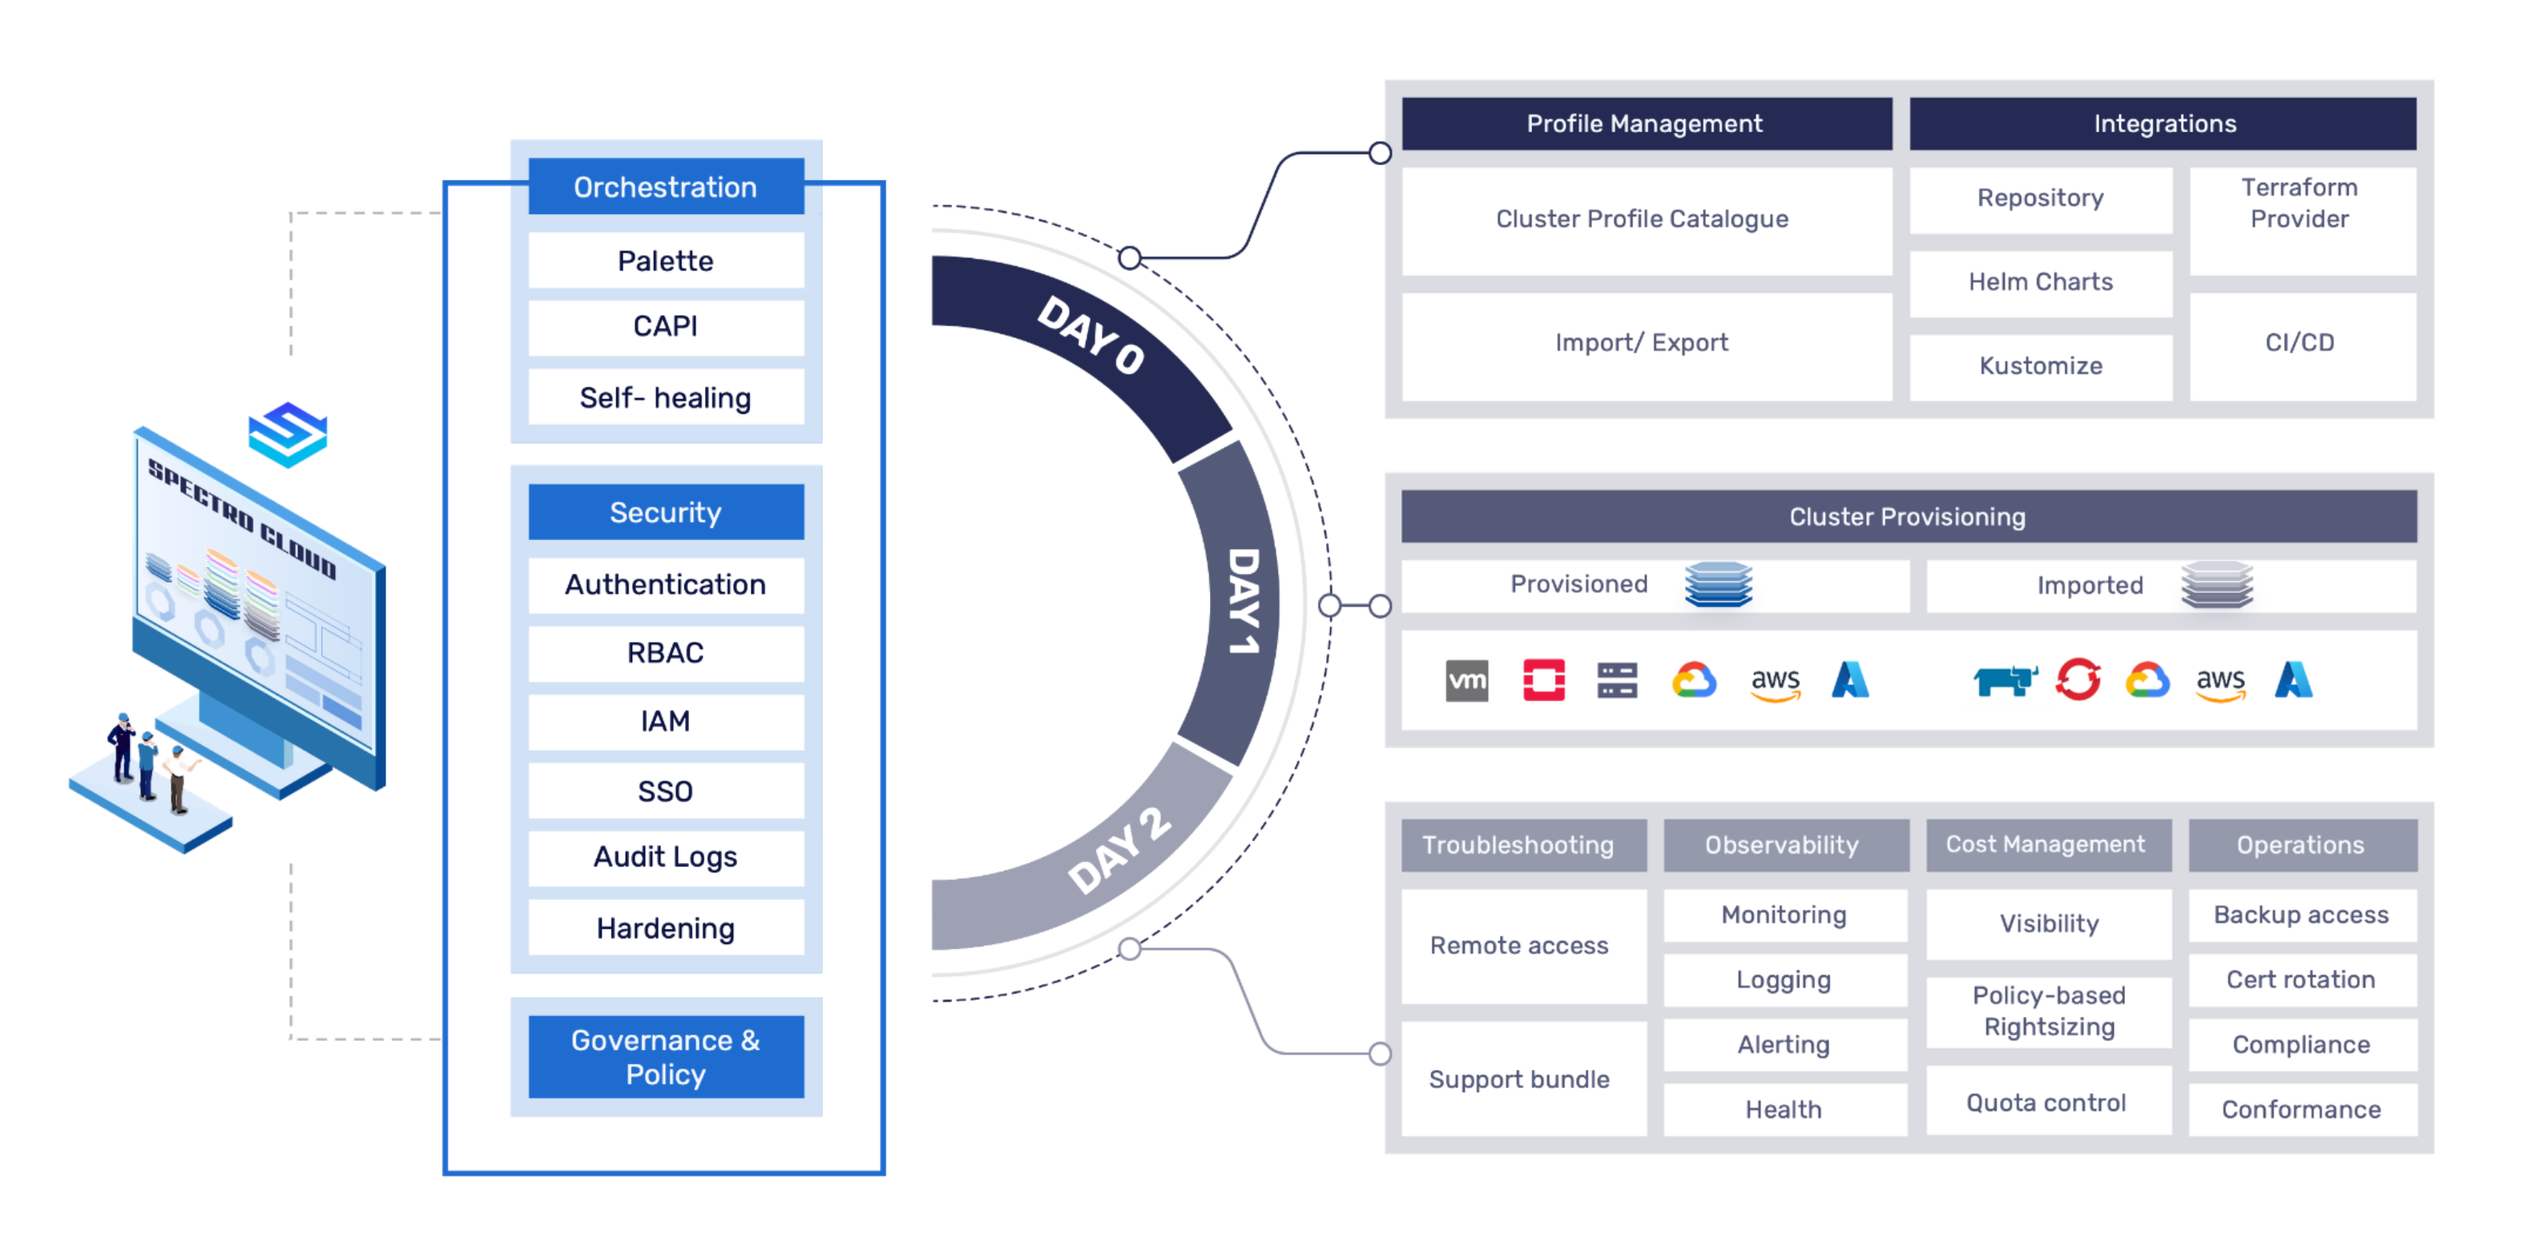
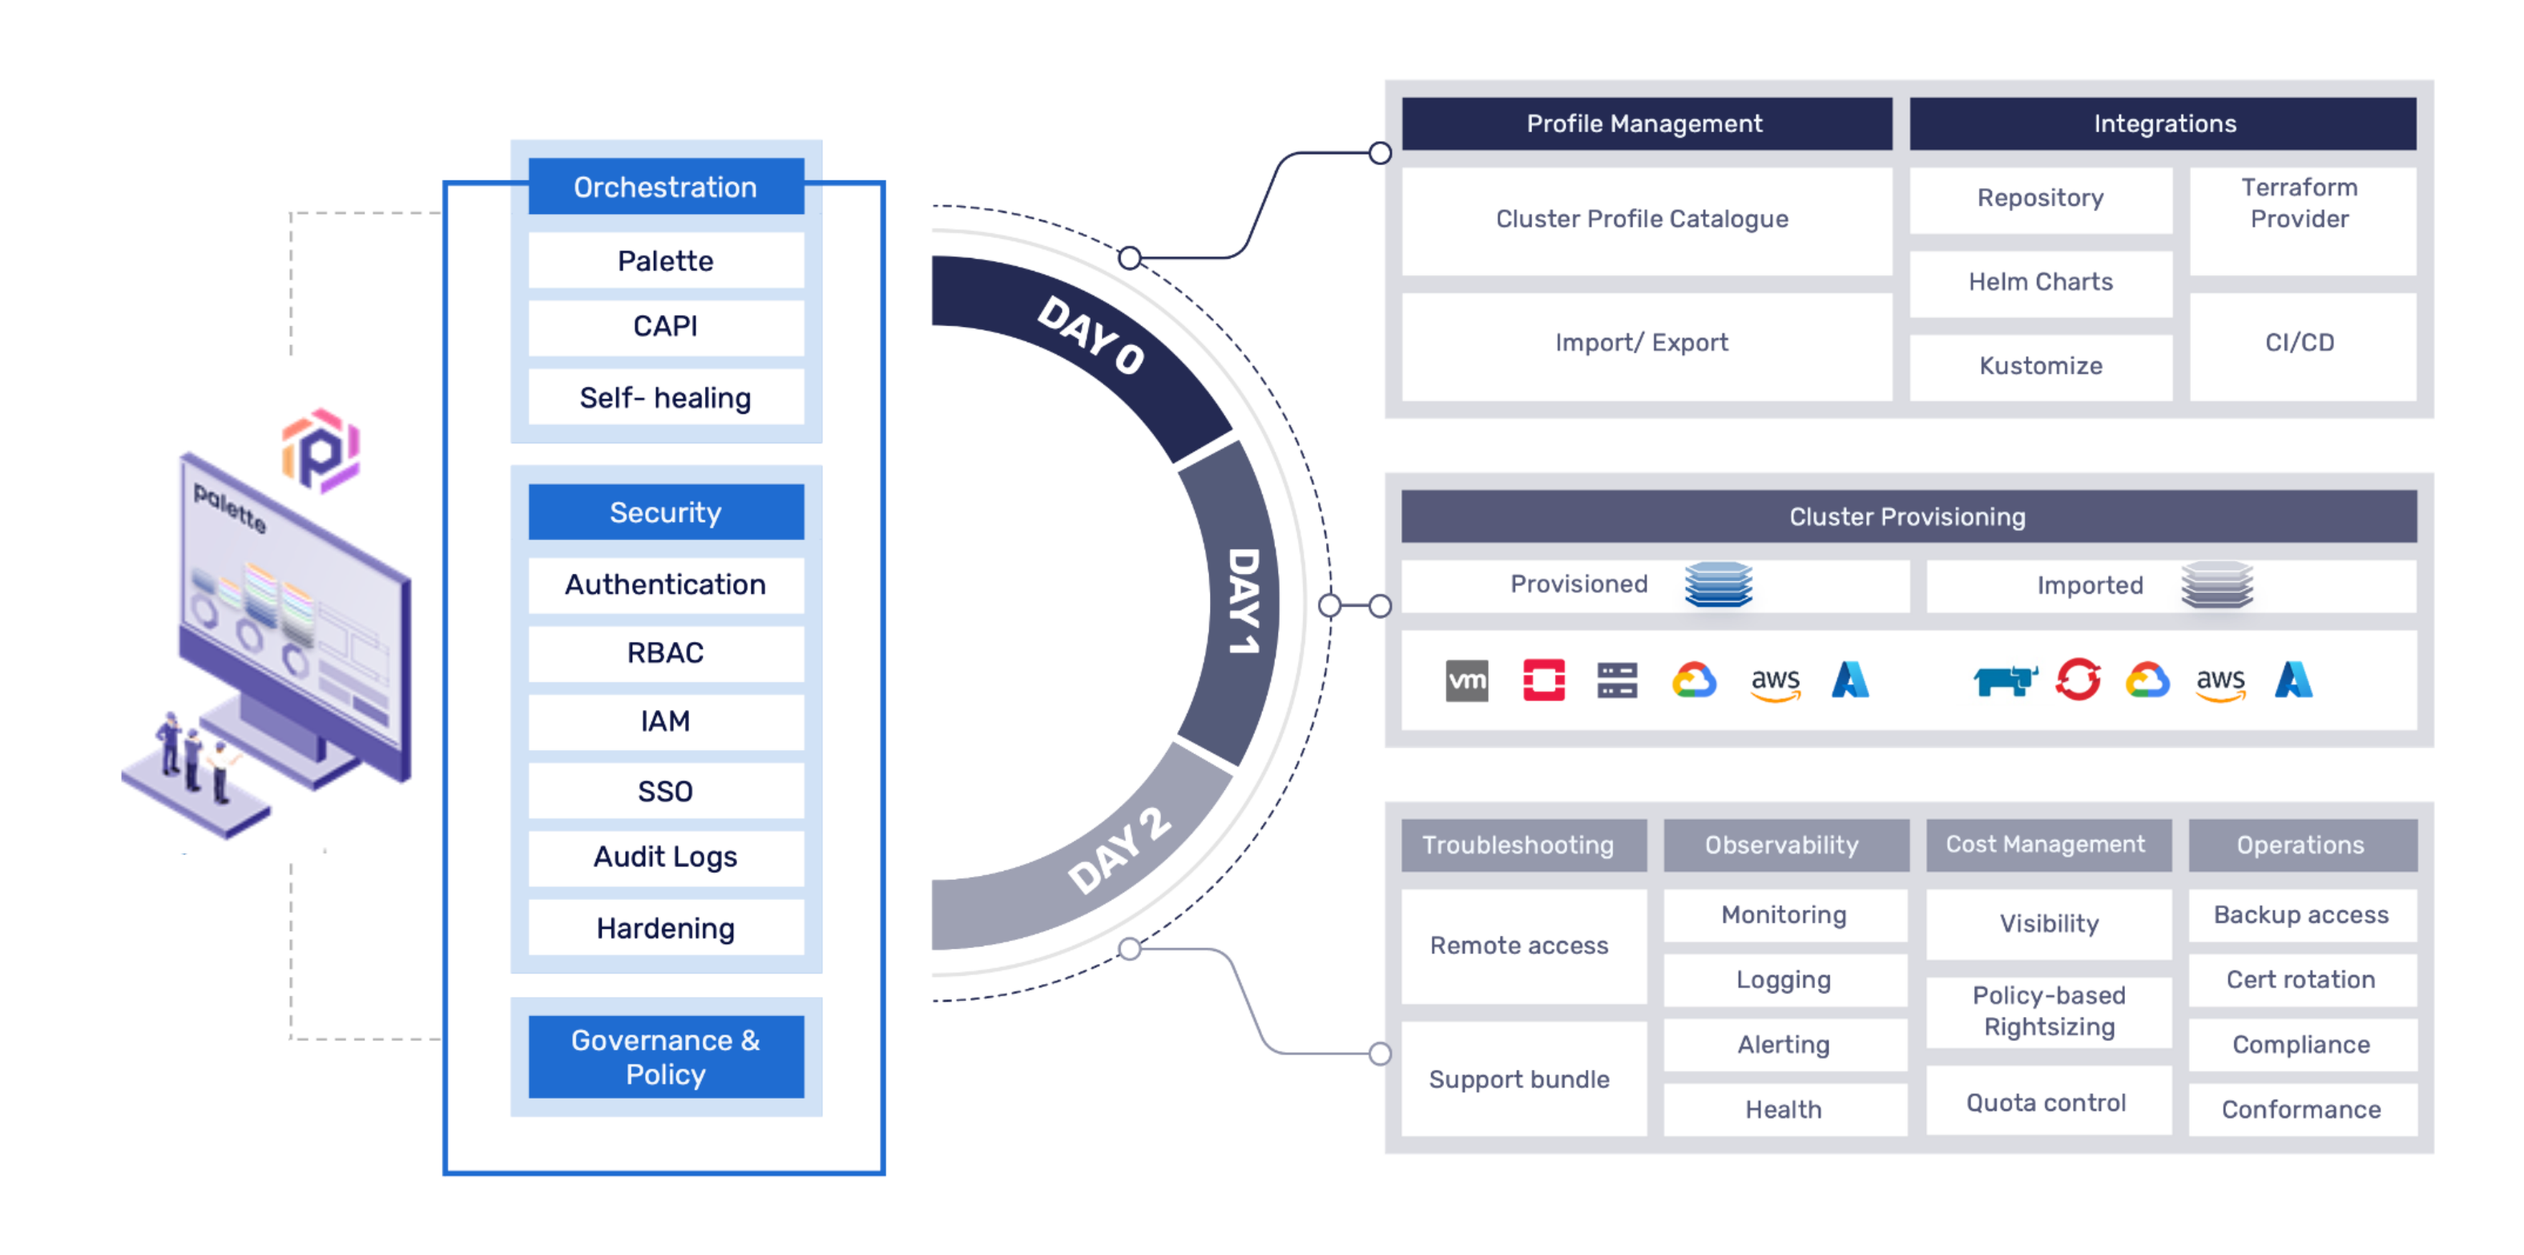
intro-page-palette-01

Changed region(s): [[0.0311, 0.3065, 0.1867, 0.6743]]

diff --git a/packages/docs/content/01-introduction/2-architecture-overview.md b/packages/docs/content/01-introduction/2-architecture-overview.md
@@ -11,38 +11,41 @@ import WarningBox from '@librarium/shared/src/components/WarningBox';
 
 # Deployment Architecture Overview
 
-Spectro Cloud supports three flexible deployment models:
+Palette can be consumed via three flexible deployment models:
 
-* **Multi-tenant SaaS:** The management plane is hosted in AWS across three regions (us-east-1, us-west-1, us-west-2) and managed by Spectro Cloud. Each customer will occupy a tenant. Spectro Cloud operation team controls when to upgrade the management plane.
-* **Dedicated SaaS:** The management plane is hosted in a cloud/region specified by the customer in Spectro Cloud’s cloud account with a dedicated instance managed by Spectro Cloud. The customer can decide when to upgrade the management plane.
-* **Self-hosted:** The management plane is hosted in the customer’s environment. It can be the customer’s on-prem VMware vSphere, OpenStack, bare metal, or in a public cloud using the customer’s cloud account.
+* **Multi-tenant SaaS**: The management plane is hosted in AWS across three regions (us-east-1, us-west-1, us-west-2) and managed by Spectro Cloud. Each customer will occupy a tenant. The Spectro Cloud operation team controls when to upgrade the management plane.
+
+* **Dedicated SaaS**: The management plane is hosted in a cloud/region specified by the customer in Spectro Cloud’s cloud account with a dedicated instance managed by Spectro Cloud. The customer can decide when to upgrade the management plane.
+
+* **Self-hosted**: The management plane is hosted in the customer’s environment. It can be the customer’s on-prem VMware vSphere, OpenStack, bare metal, or in a public cloud using the customer’s cloud account.
 
 
 ## SaaS Architecture and Data Flow
-The Spectro Cloud SaaS platform can manage public clouds (AWS, Azure, GCP) and private clouds (VMware, OpenStack, Bare Metal). The architecture and data flow slightly differ based on whether the target environment is a public or private cloud.
+
+The Palette SaaS platform can manage public clouds (AWS, Azure, Google Cloud) and on-premises data center (VMware, OpenStack, bare metal). The architecture and data flow slightly differ based on whether the target environment is a public or an on-premises data center.
 
 ### SaaS to Public Clouds
-The following diagram illustrates the data flow for Spectro Cloud SaaS to manage the EKS cluster using the user's cloud account in AWS:
 
+The following diagram illustrates the data flow for the Palette SaaS platform to manage the EKS cluster using the user's cloud account in AWS:
 
 
 ![spectro_cloud](/dfd_saas_to_aws.png)
 
 There are two main data flows represented in provisioning flow (red) and monitoring flow (green).
 
-* **Provisioning data flow:** A tenant user from the browser or API client (e.g., Terraform provider) to configure Cluster Profile, Cloud Configuration (e.g., which cloud account to use, cloud-specific placement settings like VPC, subnet), and cluster specifications (e.g., cluster size, node instance type, etc.). This information is sent to Spectro Cloud SaaS. In turn, Spectro Cloud SaaS platform will invoke the cloud API to talk to the cloud endpoint using the cloud credentials specified to provision the EKS cluster. Once the cluster is provisioned, a Spectro Cloud management agent will be pushed and installed in the cluster. This agent will receive the Cluster Profile and Cluster Specifications as the desired state from SaaS. The agent will further inspect the desired state and pull additional add-on integrations from Spectro Cloud's public package registry, or optionally a private package registry hosted by the tenant user. Once all required add-on integrations are installed, the agent will send a message to SaaS to indicate the full-stack K8s provisioning is completed.
-* **Monitoring data flow:** The agent will periodically report the cluster health status back to the SaaS. The agent will also stay in the watch loop to check if the cluster's stat matches the declared desired state. If there is any deviation (e.g. a worker node is accidentally shut down by a user directly from the cloud console), the agent can either send an alert message or based on the policy, do auto reconciliation/self-healing to bring the cluster back to match with the desired state. If there is an updated Cluster Profile or Cluster Spec, the agent will receive the updated and desired state from SaaS. It will then enforce the desired state by making cluster configuration changes accordingly.
+* **Provisioning data flow**: A tenant user from the browser or API client (e.g., Terraform provider) to configure Cluster Profile, Cloud Configuration (e.g., which cloud account to use, cloud-specific placement settings like VPC, subnet), and cluster specifications (e.g., cluster size, node instance type, etc.). This information is sent to Palette. In turn, Palette will invoke the cloud API to talk to the cloud endpoint using the cloud credentials specified to provision the EKS cluster. Once the cluster is provisioned, a Palette management agent will be pushed and installed in the cluster. This agent will receive the Cluster Profile and Cluster Specifications as the desired state from SaaS. The agent will further inspect the desired state and pull additional add-on integrations from Palette's public package registry, or optionally a private package registry hosted by the tenant user. Once all required add-on integrations are installed, the agent will send a message to SaaS to indicate the full-stack K8s provisioning is completed.
 
+
+* **Monitoring data flow**: The agent will periodically report the cluster health status back to the Palette SaaS platform. The agent will also stay in the watch loop to check if the cluster's stat matches the declared desired state. If there is any deviation (e.g. a worker node is accidentally shut down by a user directly from the cloud console), the agent can either send an alert message or based on the policy, do auto reconciliation/self-healing to bring the cluster back to match with the desired state. If there is an updated Cluster Profile or Cluster Spec, the agent will receive the updated and desired state from SaaS. It will then enforce the desired state by making cluster configuration changes accordingly.
 
 ### SaaS to Private Clouds / Data Center / Bare Metal
-For private clouds like VMware, since Spectro Cloud SaaS does not have direct access to the private cloud endpoint (e.g., vCenter), there is one extra component, Spectro Cloud Private Cloud Gateway, to be deployed in a private cloud environment to act as the local orchestrator and the proxy between Spectro Cloud’s SaaS and cloud endpoint. The following diagram illustrates the data flow for Spectro Cloud SaaS to manage an on-prem VMware private cloud:
-
+For private clouds like VMware, since the Palette SaaS platform does not have direct access to the private cloud endpoint (e.g., vCenter), there is one extra component, Palette Private Cloud Gateway, to be deployed in a private cloud environment to act as the local orchestrator and the proxy between Palette’s SaaS platform and cloud endpoint. The following diagram illustrates the data flow for the Palette SaaS platform to manage an on-prem VMware private data center:
 
 
 ![spectro_cloud](/dfd_saas_to_vmware.png)
 
 
 ## Self-hosted Architecture and Data Flow
-Although Spectro Cloud SaaS fully supports both public and private clouds, for some customers, especially with regulated industry or air-gapped environments, they may prefer to install the Spectro Cloud management platform in their own environment behind the firewall, so that they can control the platform upgrade cycles and ensure no sensitive data send to or are accessible by SaaS. For these use cases, Spectro Cloud supports the self-hosted on-prem installation. The platform updates and add-on integration contents can be optionally downloaded from an on-prem private repository instead of pulling from Spectro Cloud's hosted public repository
+Although the Palette SaaS platform fully supports both public clouds and data centers, for some customers, especially with regulated industry or air-gapped environments, they may prefer to install Palette in their own environment behind the firewall, so that they can control the platform upgrade cycles and ensure no sensitive data are exposed. For these use cases Palette supports a self-hosted on-premises installation. The platform updates and add-on integration contents can be optionally downloaded from an on-prem private repository instead of pulling from Palette’s hosted public repository.
 
 ![spectro_cloud](/dfd_on_prem_vmware.png)

diff --git a/packages/docs/content/01-introduction/1-what-is.md b/packages/docs/content/01-introduction/1-what-is.md
@@ -1,6 +1,6 @@
 ---
-title: "What is Spectro Cloud?"
-metaTitle: "About Spectro Cloud"
+title: "What is Palette?"
+metaTitle: "About Palette"
 metaDescription: "Most important concepts of Spectro Cloud"
 icon: ""
 hideToC: true
@@ -9,42 +9,49 @@ fullWidth: false
 
 import WarningBox from '@librarium/shared/src/components/WarningBox';
 
-# What is Spectro Cloud?
-Spectro Cloud is an enterprise Kubernetes management platform that acts as a single control point for any new or existing Kubernetes clusters in any environment. 
+# What is Palette?
+Palette is a complete and integrated platform that enables organizations to easily manage the entire lifecycle of any combination of new or existing, simple or complex, small or large Kubernetes environments, whether in a data center or the cloud. 
+
+With a unique approach to managing multiple clusters, Palette gives IT teams complete control, visibility and production-scale efficiencies to provide developers with highly-curated Kubernetes stacks and tools based on their specific needs, with granular governance and enterprise-grade security.
+
 
 ![1-what-is-sc](/1-what-is-sc.png)
 
 ## What makes Spectro Cloud different?
 
-### Full-Stack Management
-Unlike rigid and prepackaged Kubernetes solutions, Spectro Cloud allows users to construct flexible stacks from OS, Kubernetes, CNI, CSI to additional add-ons. As a result, the entire stack of Kubernetes is deployed, updated and managed as one unit, without split responsibility from virtual machines, base OS, Kubernetes infra, and add-ons. 
+### Full-stack management
+Unlike rigid and prepackaged Kubernetes solutions, Palette allows users to construct flexible stacks from OS, Kubernetes, CNI, CSI to additional add-on application services. As a result, the entire stack - not just the infrastructure - of Kubernetes is deployed, updated and managed as one unit, without split responsibility from virtual machines, base OS, Kubernetes infra, and add-ons.
 
-### Declarative Lifecycle Management 
-Unique declarative profile-based management enables users to institutionalize the knowledge and integrations, drive consistency, repeatability and operational efficiency across multiple clusters in multiple environments, with comprehensive day 0 - day 2 management.
+### End-to-end declarative lifecycle management
+Palette offers the most comprehensive profile-based management for Kubernetes, enabling teams to drive consistency, repeatability and operational efficiency across multiple clusters in multiple environments, with comprehensive day 0 - day 2 management.
 
-### Any Environment
-Spectro Cloud has the richest coverage in supported environments, including public cloud: AWS, Azure, GCP (both IaaS based and cloud’s managed K8s services EKS/AKS/GKE); private cloud/data center: VMware vSphere, OpenStack; Bare metal: Canonical MaaS; Edge.
+### Any environment
+Palette has the richest coverage in supported environments, including public clouds: AWS, Azure, Google Cloud (both IaaS and managed K8s services EKS/AKS/GKE); data center: VMware, OpenStack; Bare metal: Canonical MaaS; Edge.
 
 
-## What is behind the Spectro Cloud platform?
 
-Spectro Cloud extends CNCF’s open-source Cluster API project and provides comprehensive full-stack modeling and orchestration, governance, security and day0, day1, day2 management capabilities.
+## What is under the hood? 
+Palette uniquely extends and integrates CNCF’s open-source Cluster API project and provides comprehensive full-stack modeling and orchestration, governance, security and day0, day1, day2 management capabilities.
+
+With Palette’s Cluster Profiles, teams can define full-stack clusters that include both the K8s infrastructure, as well as any add-on application services. Cluster Profiles enable a repeatable way to deploy and reuse clusters across any environment. Palette also enables importing of existing Kubernetes environments and creating equivalent Cluster Profiles.
 
 
 ![2-what-is-sc](/2-what-is-sc.png)
 
 ## Who can benefit from the Spectro Cloud platform?
 
-### Everyone!!
-
 ### Developers
-You will get the flexibility you are looking for and increase the speed of innovation, whether it is the cluster template with the application services or choose a Kubernetes version with integrations like logging, monitoring, service mesh for your application development.
 
-### Ops / SRE
-Declarative management makes your life easier with consistency, repeatability and everything under your governance. All these are done through a few simple models and Terraform integrations without having to write complex scripts.
+Development teams will get the flexibility and freedom they are looking for to increase the speed of innovation, whether it is the cluster template with the add-on application services or choose a Kubernetes version with integrations like logging, monitoring, service mesh for your application development. They need not worry about Kubernetes configurations but focus on the stuff that really matters!
+
+### IT Operations and SREs
+
+Declarative management makes life easier for IT teams, with consistency, repeatability and all the enterprise-grade controls and governance they need - especially when moving to production! Cluster Profiles enable them to define and re-use full-stack clusters and support them across the full lifecycle without having to write scripts, as well as integrate with existing tools and methodologies.
+
 
 ### IT Executives
-With an open platform, you get your peace of mind without being locked into any proprietary orchestration technologies or cloud environments. This helps you lower the TCO and reduce the operational risk.
+
+With an open and enterprise-grade platform, IT leaders can get peace of mind without being locked into any proprietary orchestration technologies or one-size-fits-all solutions. This helps lower the TCO and reduce the operational risk.
 
 
 

diff --git a/packages/docs/content/01-introduction.md b/packages/docs/content/01-introduction.md
@@ -15,8 +15,7 @@ import WarningBox from '@librarium/shared/src/components/WarningBox';
 
 # Welcome to **Spectro Cloud!**
 
-
-Welcome to Spectro Cloud. Our mission is to make Kubernetes accessible and approachable and provide you an easy-to-use platform to manage **ANY** combination of Kubernetes in **ANY** environment. 
+Welcome to Spectro Cloud. Our mission is to make Kubernetes accessible and manageable with an easy-to-use platform to manage ANY combination of Kubernetes clusters across ANY environment.
 
 
 
